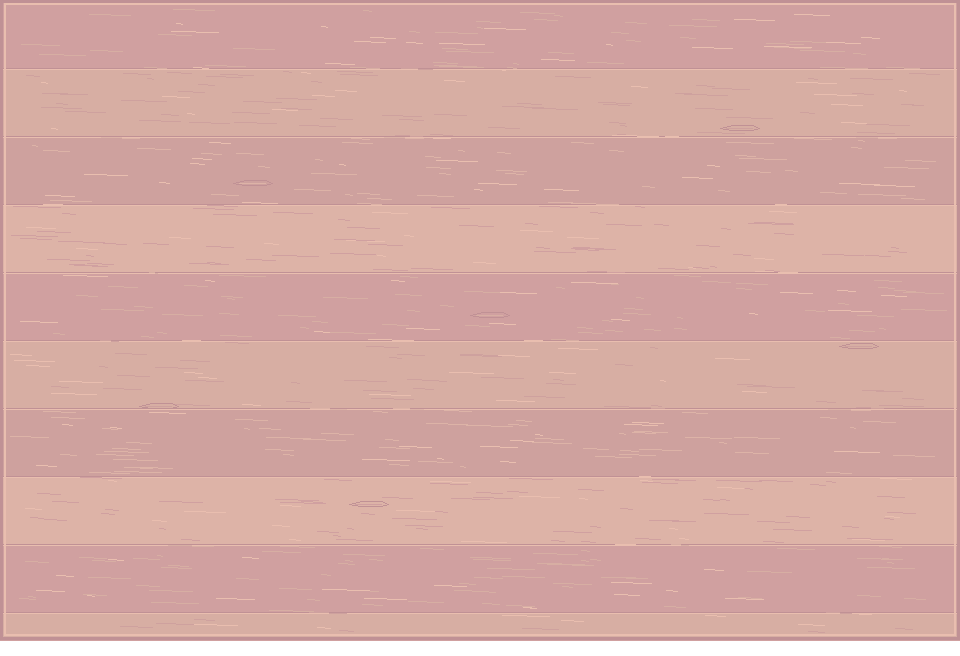
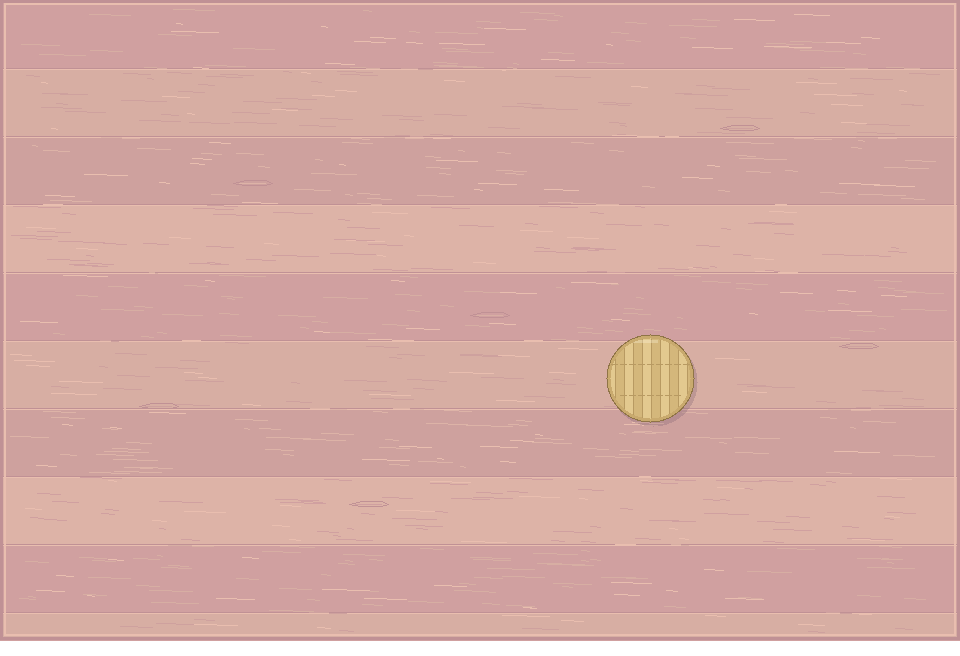
M15: ambientación japonesa de la casa
El dormitorio pasa a ser un washitsu con tatami, shoji, kakejiku y
futón; la cocina suma arrocera, pava, estante de cuencos y piso
vinílico; el living tiene piso de madera, sofá bajo, zabuton y una
alfombra de seigaiha. El paso de la cocina usa un noren (visual
door_noren) y el del living un fusuma. En micro, el nido lleva la
etiqueta de la caja de fósforos y la mesa un posavasos de bambú.
Posiciones, alturas y hash del escenario no cambian.

Changed region(s): [[0.625, 0.4878, 0.75, 0.6707]]

diff --git a/cmd/game/main_test.go b/cmd/game/main_test.go
@@ -138,9 +138,9 @@ func TestMorningMacroArt(t *testing.T) {
 	if g.visuals[g.sel] != "giantess" {
 		t.Fatalf("clic en la giantess devolvió %s", g.name(g.sel))
 	}
-	for _, x := range []int{180, 300} {
-		if id := scene.Pick(image.Pt(x, 135)); g.visuals[id] != "door" {
-			t.Errorf("umbral en (%d, 135): se seleccionó %s", x, g.name(id))
+	for x, want := range map[int]string{180: "door_noren", 300: "door"} {
+		if id := scene.Pick(image.Pt(x, 135)); g.visuals[id] != want {
+			t.Errorf("umbral en (%d, 135): se seleccionó %s, quería %s", x, g.name(id), want)
 		}
 	}
 	g.toggleFollow()

diff --git a/docs/specs/presentacion.md b/docs/specs/presentacion.md
@@ -35,7 +35,9 @@ La casa se abre con este comando. Hacé clic en la giantess para elegirla y puls
 go run ./cmd/game -art -scenario tests/scenarios/una_manana_en_la_casa.json
 ```
 
-![Vista macro de la casa con la giantess en la cocina](img/m13-casa.png)
+La casa sigue la [ambientación japonesa](../propuesta.md#ambientación): dormitorio de tatami con futón, cocina con arrocera y pava, living de madera con zabuton y alfombra de seigaiha. El paso entre cocina y dormitorio usa el visual `door_noren` y el del living, `door` (fusuma). En micro, el labio del nido lleva la etiqueta de la caja de fósforos y la mesa del living, un posavasos de bambú.
+
+![Vista macro de la casa japonesa con la giantess en el escritorio, tick 400](img/m15-casa.png)
 
 La prueba del visor verifica el picking sobre la giantess y los umbrales, el seguimiento del dormitorio a la cocina y de regreso al dormitorio antes de llegar al living, y la igualdad del hash con la ejecución headless.
 
